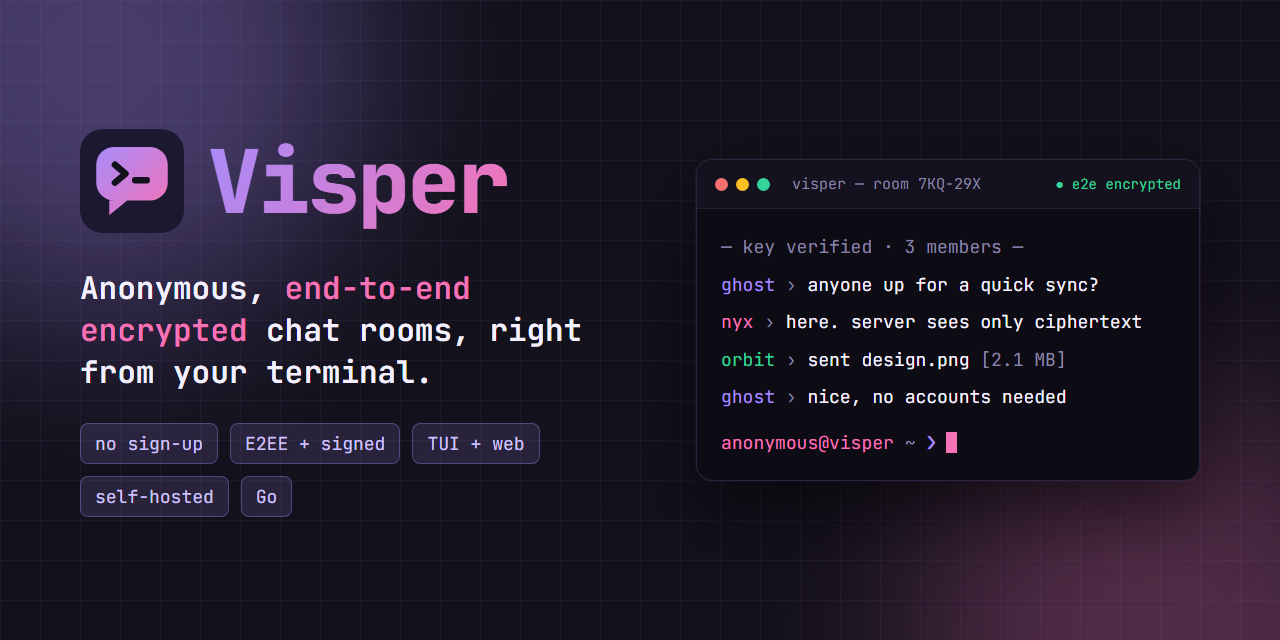
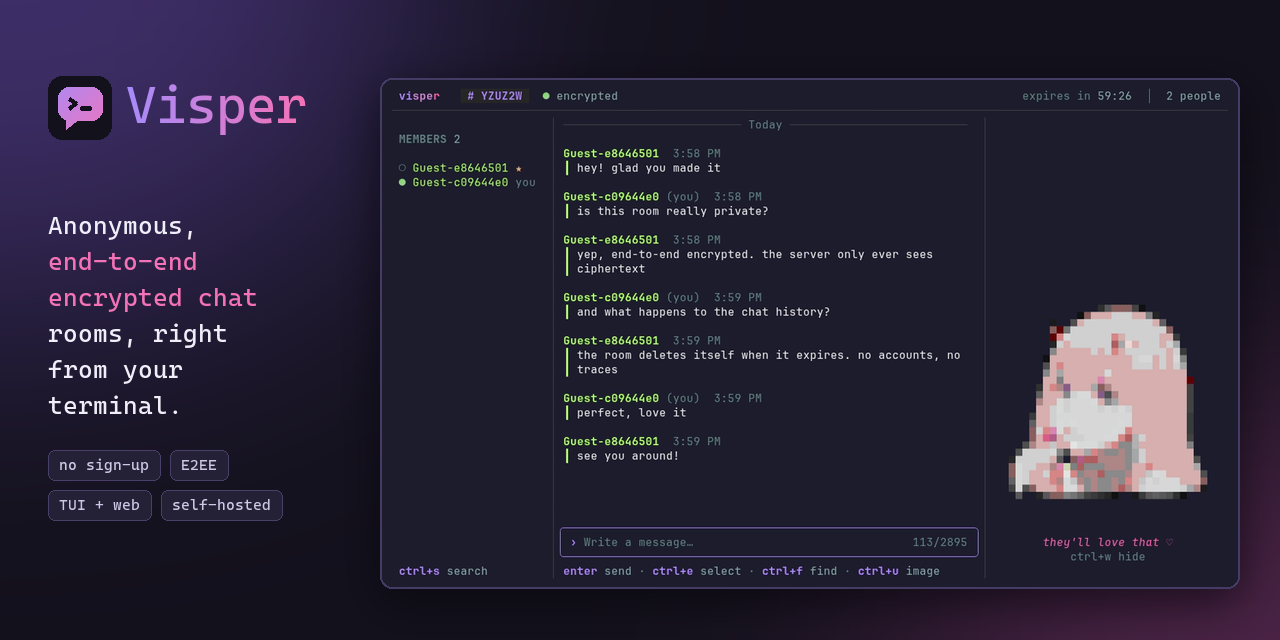
doc(preview); improved the social-preview

diff --git a/.github/assets/src/social_preview.py b/.github/assets/src/social_preview.py
@@ -1,0 +1,113 @@
+"""Builds .github/assets/social-preview.png (1280x640) from a real frame of
+docs/assets/demos/chat.gif, used as captured (companion panel included), then
+framed with the logo and tagline.
+
+    python .github/assets/src/social_preview.py
+"""
+from pathlib import Path
+from PIL import Image, ImageDraw, ImageFilter, ImageFont
+
+ROOT = Path(__file__).resolve().parents[3]
+OUT = ROOT / ".github/assets/social-preview.png"
+GIF = ROOT / "docs/assets/demos/chat.gif"
+FONTS = Path("C:/Windows/Fonts")
+
+BG = (19, 17, 28)
+LAV, PINK = (167, 139, 250), (244, 114, 182)
+
+
+
+def font(name, size):
+    return ImageFont.truetype(str(FONTS / name), size)
+
+
+def tui_frame():
+    gif = Image.open(GIF)
+    gif.seek(gif.n_frames - 1)
+    return gif.convert("RGB")
+
+
+def gradient_text(img, xy, text, fnt):
+    mask = Image.new("L", img.size)
+    ImageDraw.Draw(mask).text(xy, text, font=fnt, fill=255)
+    box = mask.getbbox()
+    grad = Image.new("RGB", img.size)
+    gd = ImageDraw.Draw(grad)
+    for x in range(box[0], box[2] + 1):
+        t = (x - box[0]) / max(1, box[2] - box[0])
+        gd.line((x, 0, x, img.height),
+                fill=tuple(round(a + (b - a) * t) for a, b in zip(LAV, PINK)))
+    img.paste(grad, mask=mask)
+
+
+def logo(size):
+    s = size / 128
+    img = Image.new("RGBA", (size, size))
+    d = ImageDraw.Draw(img)
+    d.rounded_rectangle((0, 0, size - 1, size - 1), radius=28 * s, fill=BG)
+    bubble = Image.new("L", (size, size))
+    bd = ImageDraw.Draw(bubble)
+    bd.rounded_rectangle((20 * s, 22 * s, 108 * s, 88 * s), radius=22 * s, fill=255)
+    bd.polygon([(36 * s, 80 * s), (58 * s, 88 * s), (36 * s, 106 * s)], fill=255)
+    grad = Image.new("RGBA", (size, size))
+    gd = ImageDraw.Draw(grad)
+    for i in range(size * 2):
+        t = i / (size * 2)
+        gd.line((i, 0, 0, i), fill=tuple(round(a + (b - a) * t) for a, b in zip(LAV, PINK)))
+    img.paste(grad, mask=bubble)
+    d.line([(43 * s, 44 * s), (56 * s, 55 * s), (43 * s, 66 * s)], fill=BG,
+           width=round(8 * s), joint="curve")
+    d.rounded_rectangle((64 * s, 59 * s, 86 * s, 67 * s), radius=3 * s, fill=BG)
+    return img
+
+
+def main():
+    W, H = 1280, 640
+    img = Image.new("RGB", (W, H), BG)
+    glow = Image.new("RGB", (W, H), BG)
+    gd = ImageDraw.Draw(glow)
+    gd.ellipse((-260, -300, 420, 300), fill=(62, 46, 104))
+    gd.ellipse((900, 420, 1500, 900), fill=(78, 36, 72))
+    img = Image.blend(img, glow.filter(ImageFilter.GaussianBlur(140)), 1.0)
+
+    # Real TUI window, scaled, with a soft shadow and a thin border.
+    tui = tui_frame()
+    tw = 860
+    th = round(tui.height * tw / tui.width)
+    tui = tui.resize((tw, th), Image.LANCZOS)
+    tx, ty = W - tw - 40, (H - th) // 2 + 14
+    shadow = Image.new("L", (W, H))
+    ImageDraw.Draw(shadow).rounded_rectangle((tx, ty + 12, tx + tw, ty + th + 12), 14, fill=170)
+    img.paste((5, 4, 10), mask=shadow.filter(ImageFilter.GaussianBlur(22)))
+    m = Image.new("L", (tw, th))
+    ImageDraw.Draw(m).rounded_rectangle((0, 0, tw - 1, th - 1), 12, fill=255)
+    img.paste(tui, (tx, ty), m)
+    d = ImageDraw.Draw(img)
+    d.rounded_rectangle((tx, ty, tx + tw - 1, ty + th - 1), 12, outline=(68, 60, 100), width=2)
+
+    # Left column: logo, name, tagline, tags.
+    lx = 48
+    img.paste(logo(64), (lx, 76), logo(64))
+    gradient_text(img, (lx + 78, 74), "Visper", font("CascadiaMono.ttf", 52))
+    tag = font("CascadiaMono.ttf", 25)
+    y = 210
+    for line, accent in [("Anonymous,", False), ("end-to-end", True),
+                         ("encrypted chat", True), ("rooms, right", False),
+                         ("from your", False), ("terminal.", False)]:
+        d.text((lx, y), line, font=tag, fill=PINK if accent else (240, 238, 248))
+        y += 36
+    chip = font("CascadiaMono.ttf", 15)
+    cx, cy = lx, 450
+    for t in ["no sign-up", "E2EE", "TUI + web", "self-hosted"]:
+        w = d.textlength(t, font=chip) + 22
+        if cx + w > lx + 290:
+            cx, cy = lx, cy + 40
+        d.rounded_rectangle((cx, cy, cx + w, cy + 30), 7, fill=(36, 32, 54), outline=(72, 64, 104))
+        d.text((cx + 11, cy + 6), t, font=chip, fill=(205, 200, 230))
+        cx += w + 10
+    img.save(OUT, optimize=True)
+    print("wrote", OUT)
+
+
+if __name__ == "__main__":
+    main()
